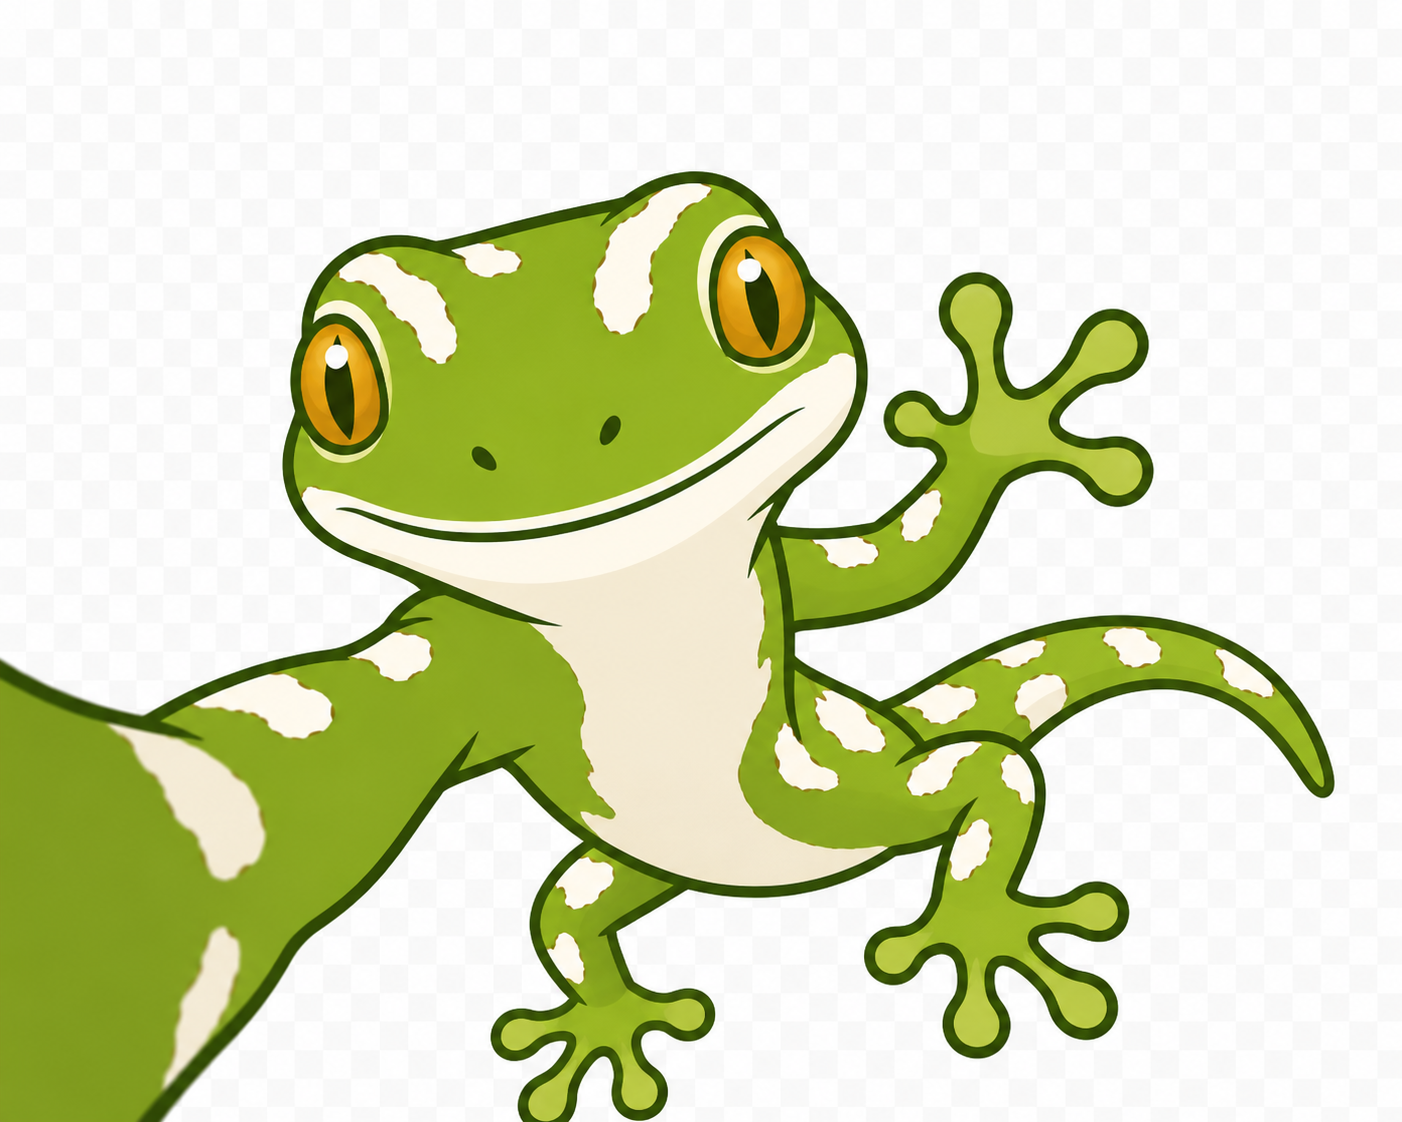
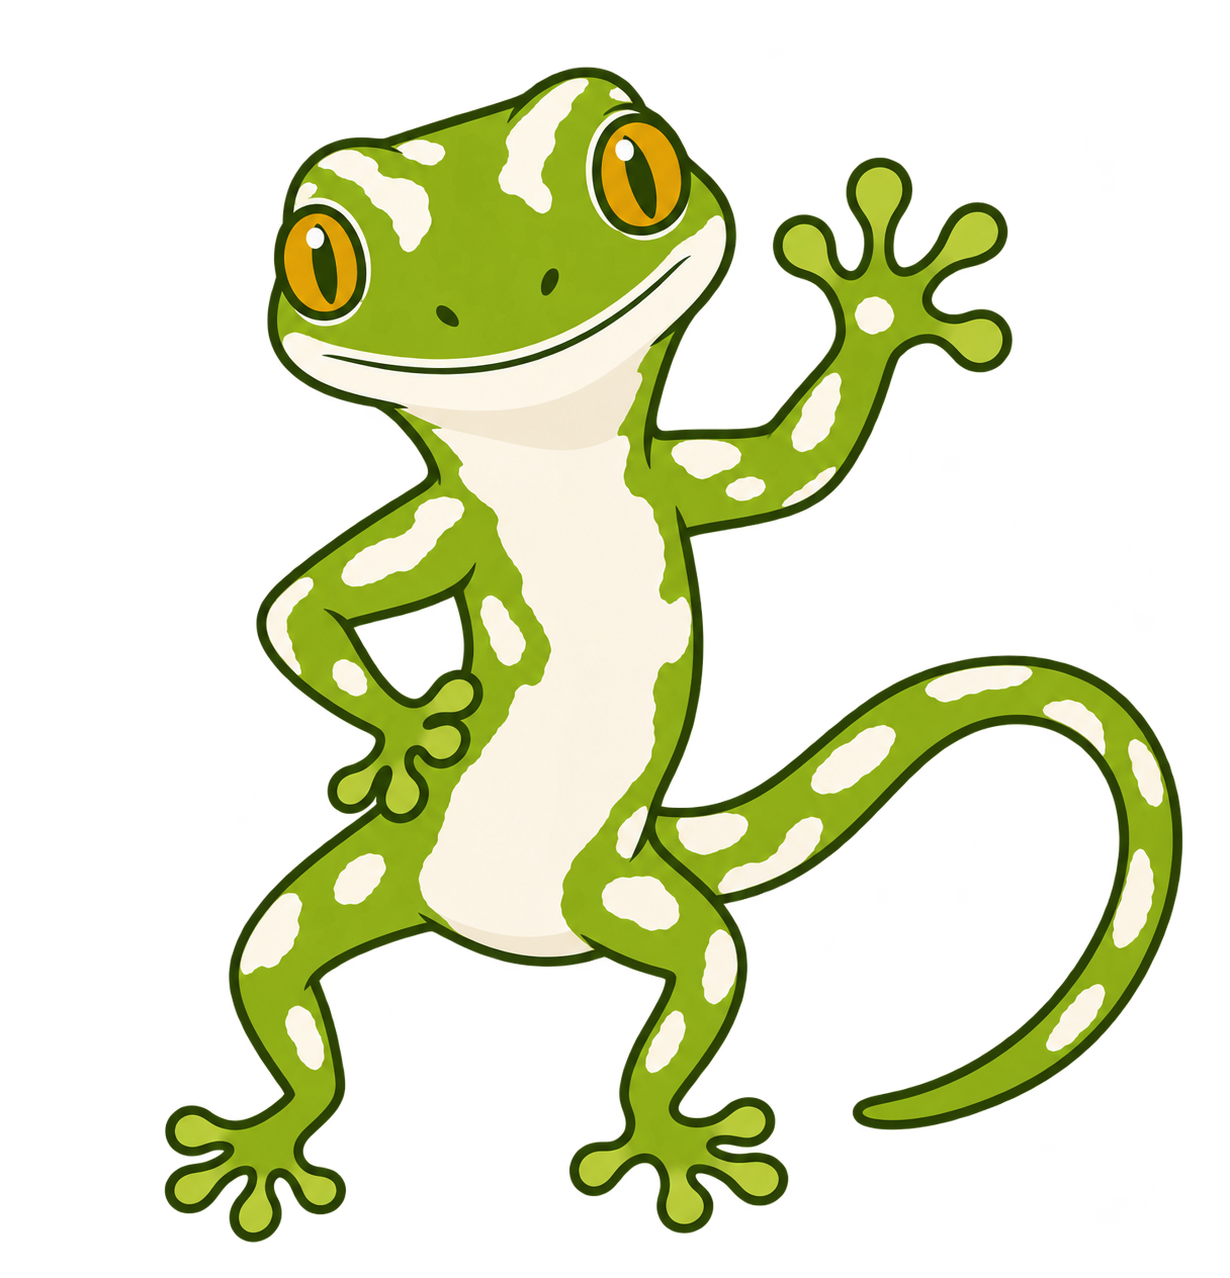
New gecko artwork, and stop it moving (v1.1)
Front-page gecko replaced with the standing, waving version — the whole animal
is in frame this time rather than running off the left edge, so nothing is
cropped. It arrived with genuine transparency, unlike the first one whose
checkerboard was painted in, so it needed only trimming and resizing.

The artwork is portrait where the old one was landscape, so the hero is
narrower (236px, was 330px) to stop it pushing the title and button down the
page. Everything still fits one screen at 375x812.

Removed the drift animation. It was inherited from the sea slug app, where a
slow float suits an animal suspended in water; a gecko bobbing up and down on
the spot does not read the same way.

Also renamed .nudi-art to .hero-art, which had come across with the copy and
was confusing in a lizard app.

diff --git a/lizards/index.html b/lizards/index.html
@@ -92,20 +92,8 @@
     text-align: center;
     padding: 40px 22px calc(58px + env(safe-area-inset-bottom));
   }
-  .nudi-art { width: min(330px, 80vw); color: var(--cream); margin-bottom: 4px; }
-  .nudi-art svg, .nudi-art img {
-    width: 100%; height: auto; display: block;
-    animation: drift 7s ease-in-out infinite;
-  }
-  /* A slow suspended-in-water drift. Deliberately small — it should read as
-     alive out of the corner of your eye, not as a bouncing GIF. */
-  @keyframes drift {
-    0%, 100% { transform: translateY(0)      rotate(0deg); }
-    50%      { transform: translateY(-9px)   rotate(-1.1deg); }
-  }
-  @media (prefers-reduced-motion: reduce) {
-    .nudi-art svg, .nudi-art img { animation: none; }
-  }
+  .hero-art { width: min(236px, 58vw); color: var(--cream); margin-bottom: 6px; }
+  .hero-art svg, .hero-art img { width: 100%; height: auto; display: block; }
 
   .home-title {
     font-family: var(--font-display); font-weight: 600;
@@ -476,7 +464,7 @@
 <!-- ══ HOME ══════════════════════════════════════════════════════════════ -->
 <section id="screen-home" class="screen active">
   <div class="home-wrap">
-    <div class="nudi-art"><img src="gecko-logo.webp" alt="" width="900" height="641"></div>
+    <div class="hero-art"><img src="gecko-logo.webp" alt="" width="760" height="878"></div>
 
     <h1 class="home-title">Lizards<span class="near">Near Me</span></h1>
 
@@ -502,7 +490,7 @@
     <button class="icon-btn" data-back="home" aria-label="Back">&#8592;</button>
     <div class="topbar-grow">
       <div class="topbar-title">About</div>
-      <div class="topbar-meta">Lizards Near Me v1.0</div>
+      <div class="topbar-meta">Lizards Near Me v1.1</div>
     </div>
   </div>
   <div class="page prose">
